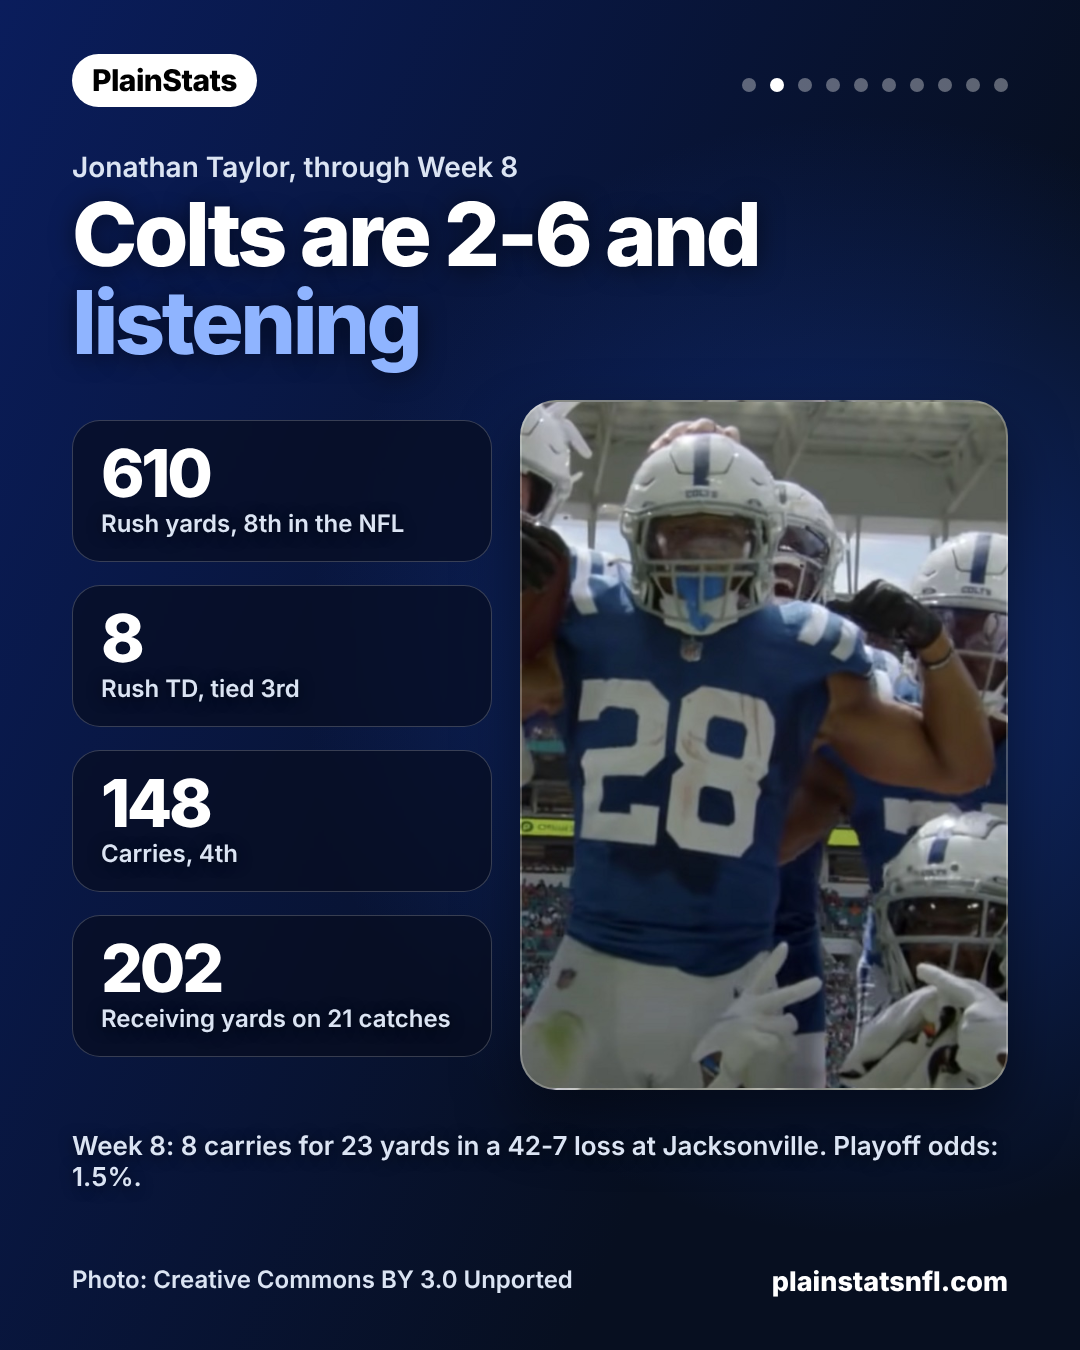
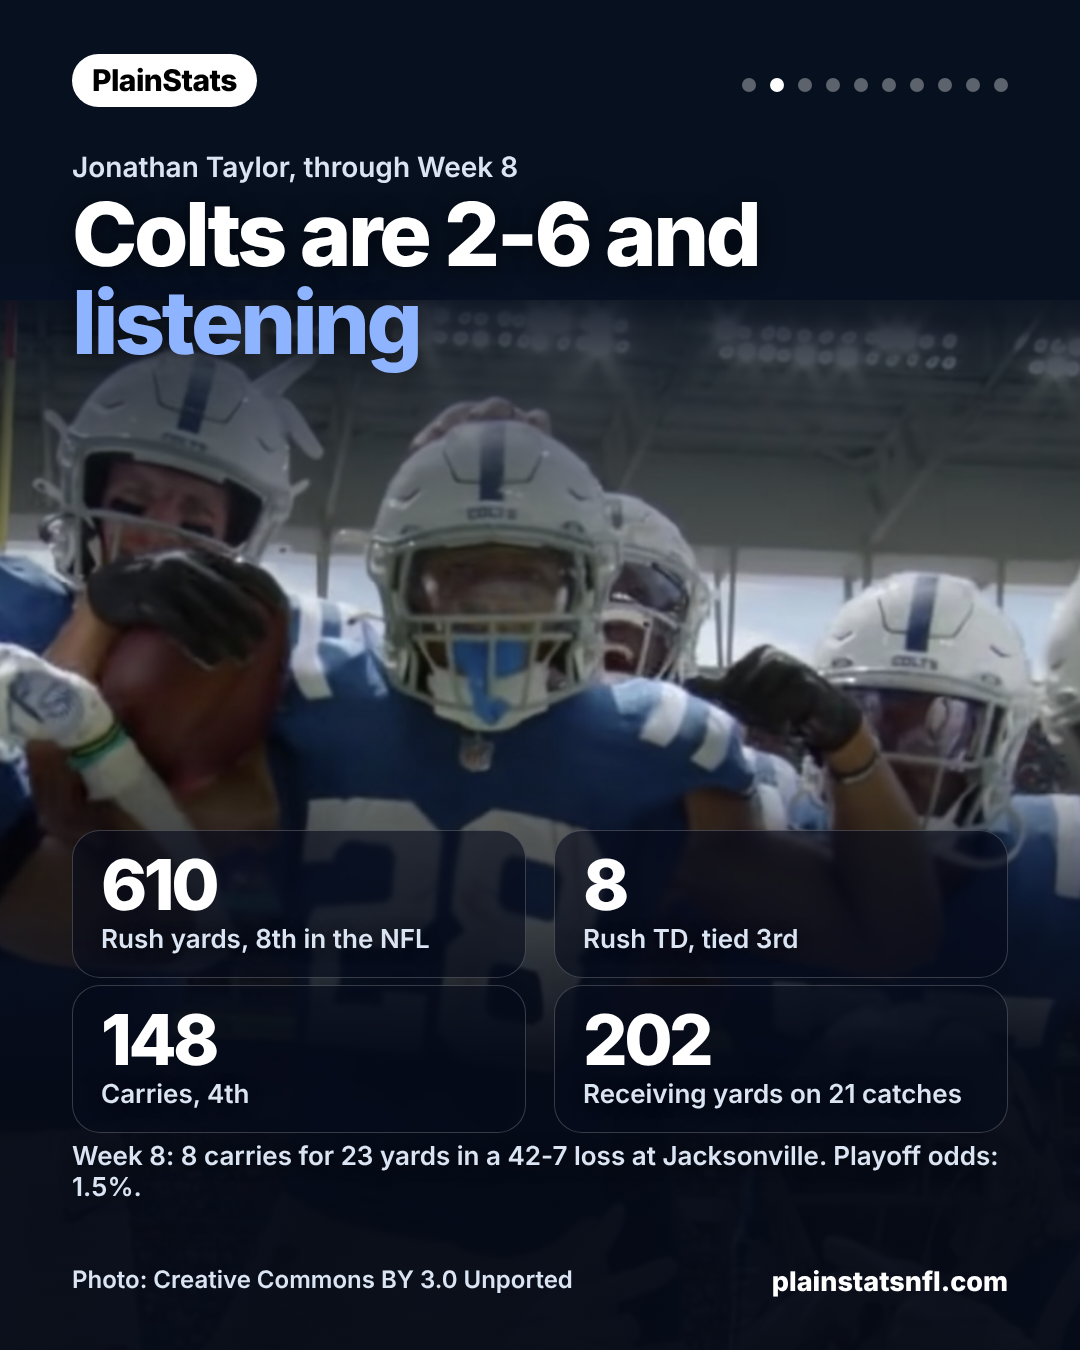
Taylor carousel: full-bleed photo on slide 2
Claude-Session: https://claude.ai/code/session_01McRLt2yxNi3bsd36eWHBtU

diff --git a/post-work/make_taylor.py b/post-work/make_taylor.py
@@ -35,12 +35,12 @@ ph=photo(0,0,1080,1350)+'<div class=abs style="inset:0;background:linear-gradien
 body='<div class=eyebrow style="top:870px">Colts are open to trading him</div><h1 style="top:915px;font-size:94px">Jonathan Taylor: <em>top 3</em> trade destinations</h1>'
 S.append(shell(0,'IND',body,ph))
 # 2 situation
-t=D['taylor']; P2=f'{HERE}/img/jonathan-taylor-2.jpg'
-def tile(x,y,n,l,w=420): return f'<div class="abs tile" style="left:{x}px;top:{y}px;width:{w}px;z-index:8"><div class=big style="font-size:66px">{n}</div><div class=lab style="margin-top:6px;font-size:24px">{l}</div></div>'
-ph=f'<div class=abs style="left:520px;top:400px;width:488px;height:690px;border-radius:36px;background:url(file://{P2}) center top/cover;border:2px solid rgba(255,255,255,.25);box-shadow:0 30px 60px rgba(0,0,0,.5);z-index:3"></div><div class=abs style="inset:0;background:radial-gradient(800px 800px at 80% 50%,rgba(29,79,214,.45),transparent 70%)"></div>'
+t=D['taylor']; P3=f'{HERE}/img/jonathan-taylor-3.jpg'
+def tile(x,y,n,l,w=454): return f'<div class="abs tile" style="left:{x}px;top:{y}px;width:{w}px;z-index:8"><div class=big style="font-size:70px">{n}</div><div class=lab style="margin-top:6px">{l}</div></div>'
+ph=f'<div class=abs style="left:0;top:300px;width:1080px;height:1050px;background:url(file://{P3}) center top/cover"></div><div class=abs style="left:0;right:0;top:0;height:620px;background:linear-gradient(180deg,#07101f 0,#07101f 42%,rgba(7,16,31,0))"></div><div class=abs style="left:0;right:0;top:700px;height:650px;background:linear-gradient(180deg,rgba(5,10,22,0),rgba(5,10,22,.95) 55%)"></div>'
 body=f'<div class=eyebrow style="top:150px">Jonathan Taylor, through Week 8</div><h1 style="top:190px;font-size:88px">Colts are {D["IND"]["rec"]} and <em>listening</em></h1>'
-body+=tile(72,420,t['yds'],f'Rush yards, {t["yds_rk"]} in the NFL')+tile(72,585,t['td'],f'Rush TD, {t["td_rk"]}')+tile(72,750,t['car'],f'Carries, {t["car_rk"]}')+tile(72,915,t['recyds'],f'Receiving yards on {t["rec"]} catches')
-body+=f'<div class="abs lab" style="left:72px;right:72px;top:1130px;z-index:8;font-size:26px">Week 8: {t["w8"]} in a {D["IND"]["w8"]}. Playoff odds: {D["IND"]["po"]}.</div>'
+body+=tile(72,830,t['yds'],f'Rush yards, {t["yds_rk"]} in the NFL')+tile(554,830,t['td'],f'Rush TD, {t["td_rk"]}')+tile(72,985,t['car'],f'Carries, {t["car_rk"]}')+tile(554,985,t['recyds'],f'Receiving yards on {t["rec"]} catches')
+body+=f'<div class="abs lab" style="left:72px;right:72px;top:1140px;z-index:8;font-size:26px">Week 8: {t["w8"]} in a {D["IND"]["w8"]}. Playoff odds: {D["IND"]["po"]}.</div>'
 S.append(shell(1,'IND',body,ph,'Photo: Creative Commons BY 3.0 Unported'))
 # 3-5 teams
 def team(i,key,rank,pos,zoom,shift):
